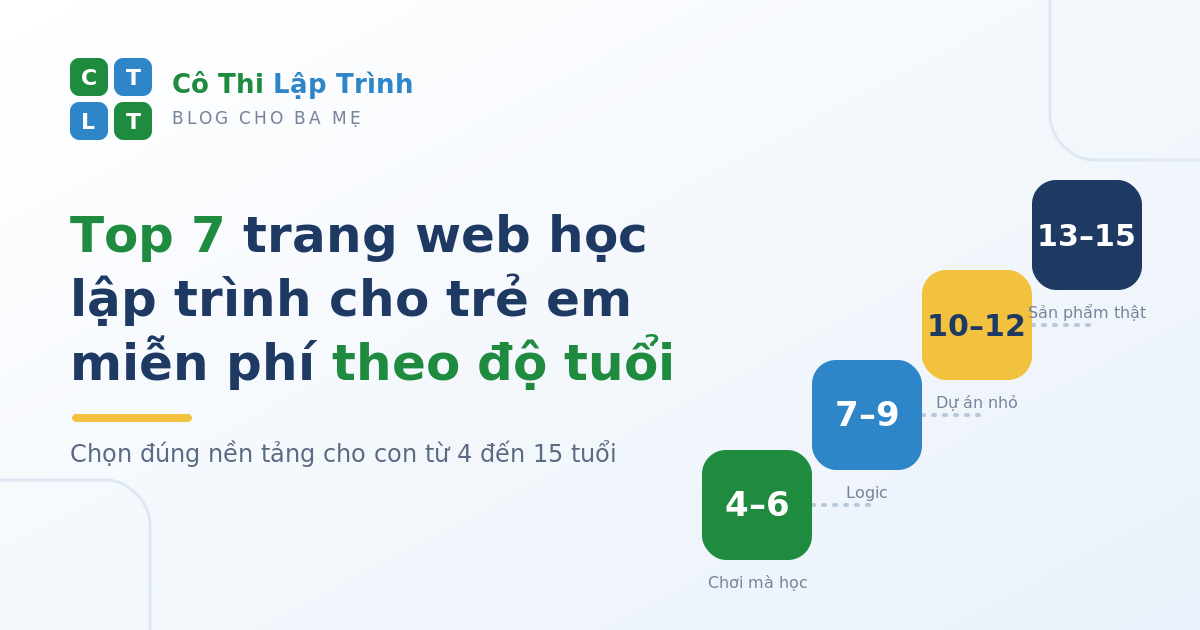
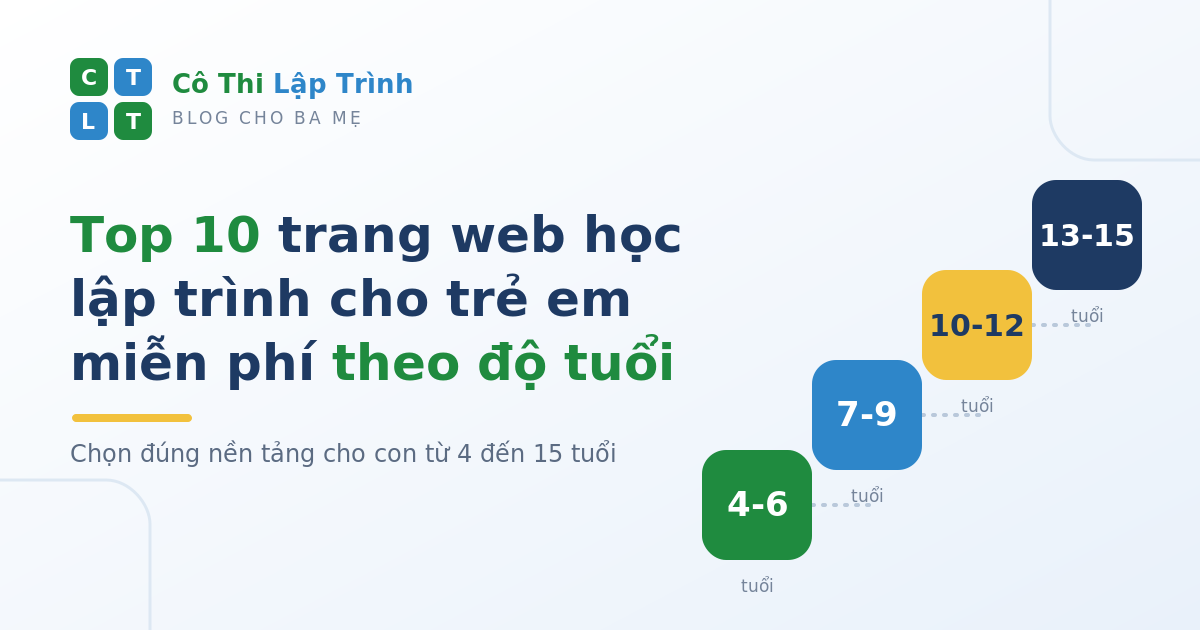
entry top trang 10 web

diff --git a/src/content/blog/nhung-trang-web-tu-hoc-lap-trinh-cho-tre-theo-do-tuoi.md b/src/content/blog/nhung-trang-web-tu-hoc-lap-trinh-cho-tre-theo-do-tuoi.md
@@ -1,147 +1,160 @@
 ---
-title: "Top 7 trang web học lập trình cho trẻ em miễn phí theo độ tuổi (4-15 tuổi)"
-description: "Trẻ em nên học lập trình ở đâu? Gợi ý 7 trang web học lập trình miễn phí cho trẻ từ 4 đến 15 tuổi: Scratch, Code.org, Khan Academy, CodeCombat... kèm lộ trình chọn đúng theo từng giai đoạn của con."
+title: "Top 10 trang web tự học lập trình cho trẻ em miễn phí theo độ tuổi (4-15 tuổi)"
+description: "Tổng hợp 10 trang web tự học lập trình miễn phí cho trẻ từ 4 đến 15 tuổi: Scratch, Code.org, Khan Academy, CodeCombat... kèm hướng dẫn chọn nền tảng đúng theo từng giai đoạn phát triển của trẻ."
 date: 2026-07-16
 tags: ["Lập trình cho trẻ", "Scratch", "Python", "Phụ huynh"]
 cover: "/assets/blog/tu-hoc-theo-do-tuoi/cover.png"
 ---
 
-Có một câu hỏi mà Cô Thi nhận được nhiều đến mức gần như tuần nào cũng gặp: *"Cô ơi, con em nên học lập trình ở trang web nào?"*
+Nhiều phụ huynh muốn cho con tự học lập trình tại nhà, hoàn toàn miễn phí, nhưng khi tìm kiếm "học lập trình cho trẻ em" thì nhận về hàng trăm kết quả khó phân biệt. Bài viết này tổng hợp 10 trang web tự học lập trình miễn phí uy tín, được sắp xếp theo từng độ tuổi từ 4 đến 15, kèm hướng dẫn chọn nền tảng phù hợp cho từng giai đoạn phát triển của trẻ.
 
-Mỗi lần như vậy, Cô thường hỏi ngược lại một câu rất đơn giản: **"Con năm nay bao nhiêu tuổi?"** Bởi vì sau nhiều năm đứng lớp, Cô nhận ra điều này: không có trang web học lập trình nào là "tốt nhất" cho mọi đứa trẻ. Chỉ có trang web **đúng lúc** cho từng giai đoạn của con. Một nền tảng tuyệt vời với bạn 13 tuổi có thể khiến bạn 6 tuổi bật khóc vì choáng ngợp. Và ngược lại, một trò chơi kéo thả dễ thương với bé mầm non lại làm bạn teen thấy... chán ngay từ phút thứ ba.
+Lý do cần chọn theo độ tuổi rất đơn giản: không có nền tảng nào "tốt nhất" cho mọi đứa trẻ, chỉ có nền tảng đúng lúc cho từng giai đoạn. Một trang web lý tưởng với học sinh 13 tuổi có thể quá phức tạp với trẻ 6 tuổi. Ngược lại, trò chơi kéo thả dành cho trẻ mầm non khó giữ chân một học sinh cấp 2 quá vài phút.
 
-Bài viết này là những gì Cô Thi thường chia sẻ với ba mẹ về các trang web học lập trình cho trẻ em miễn phí, sắp xếp lại theo từng độ tuổi — như một tấm bản đồ nhỏ để ba mẹ nhìn vào hành trình của con.
+> Không có trang web học lập trình nào tốt nhất cho mọi đứa trẻ. Chỉ có trang web phù hợp với độ tuổi và giai đoạn phát triển của từng em.
 
 ![Lộ trình học lập trình cho trẻ em theo độ tuổi: 4-6 chơi mà học, 7-9 logic và tuần tự, 10-12 dự án nhỏ, 13-15 sản phẩm thật](/assets/blog/tu-hoc-theo-do-tuoi/lo-trinh-do-tuoi.svg)
 
-## Tóm tắt nhanh: 7 trang web học lập trình cho trẻ em miễn phí
+## Tóm tắt nhanh: 10 trang web học lập trình cho trẻ em miễn phí
 
-Nếu ba mẹ đang vội, đây là bản đồ rút gọn (chi tiết từng giai đoạn ở bên dưới):
+Dành cho phụ huynh đang cần câu trả lời ngay, đây là danh sách rút gọn (phân tích chi tiết ở các phần dưới):
 
-1. **[Scratch](https://scratch.mit.edu/)** — 4-12 tuổi, kéo thả khối lệnh, phổ biến nhất thế giới
-2. **[Blockly Games](https://blockly.games/)** — 4-8 tuổi, trò chơi logic đơn giản, không cần đọc nhiều
-3. **[Code.org](https://code.org/)** — 4-15 tuổi, bài học theo lớp, có tiếng Việt
-4. **[Tynker](https://www.tynker.com/)** — 7-12 tuổi, bài học ngắn có cấu trúc
-5. **[Khan Academy](https://www.khanacademy.org/computing)** — 8-15 tuổi, học có lộ trình, hoàn toàn miễn phí
-6. **[CodeCombat](https://codecombat.com/)** — 10-14 tuổi, viết code thật để chơi game
-7. **[freeCodeCamp](https://www.freecodecamp.org/)** — 13 tuổi trở lên, lập trình web thực tế
+1. **[ScratchJr](https://www.scratchjr.org/)**: 4-6 tuổi, ứng dụng kéo thả cho bé chưa đọc thạo
+2. **[Blockly Games](https://blockly.games/)**: 4-8 tuổi, trò chơi logic đơn giản, ít chữ
+3. **[Lightbot](https://lightbot.com/)**: 5-9 tuổi, game giải đố dạy tư duy lập trình
+4. **[Scratch](https://scratch.mit.edu/)**: 6-12 tuổi, kéo thả khối lệnh, phổ biến nhất thế giới
+5. **[Code.org](https://code.org/)**: 4-15 tuổi, bài học theo lớp, có tiếng Việt
+6. **[Tynker](https://www.tynker.com/)**: 7-12 tuổi, bài học ngắn có cấu trúc
+7. **[CS First của Google](https://csfirst.withgoogle.com/)**: 9-14 tuổi, học Scratch theo chủ đề, có video hướng dẫn
+8. **[Khan Academy](https://www.khanacademy.org/computing)**: 8-15 tuổi, lộ trình rõ ràng, miễn phí hoàn toàn
+9. **[CodeCombat](https://codecombat.com/)**: 10-14 tuổi, viết code thật để chơi game
+10. **[freeCodeCamp](https://www.freecodecamp.org/)**: 13 tuổi trở lên, lập trình web thực tế
 
 ## Trang web học lập trình cho trẻ 4-6 tuổi: học bằng chơi, học bằng cảm nhận
 
 ![Trẻ 4-6 tuổi học lập trình qua các khối lệnh kéo thả đơn giản và nhân vật ngộ nghĩnh](/assets/blog/tu-hoc-theo-do-tuoi/tuoi-4-6.svg)
 
-Ở lứa tuổi này, con chưa cần biết "lập trình" là gì — và thật lòng, con cũng không cần biết. Điều duy nhất đáng để con khám phá là một cảm giác rất kỳ diệu: **mình ra lệnh, và máy tính làm theo.**
+Ở lứa tuổi mầm non, trẻ chưa cần biết khái niệm "lập trình" và cũng chưa cần học bất kỳ cú pháp nào. Trải nghiệm giá trị nhất ở giai đoạn này là cảm giác điều khiển được máy tính: trẻ kéo một khối lệnh, nhân vật trên màn hình cử động theo. Chính phản hồi tức thì đó gieo mầm cho tư duy nguyên nhân - kết quả, nền móng của mọi kỹ năng lập trình sau này.
 
-Cô vẫn nhớ ánh mắt của một bạn nhỏ 5 tuổi trong lớp, khi bạn kéo khối lệnh đầu tiên và chú mèo trên màn hình nhúc nhích. Bạn quay sang mẹ, tròn xoe: "Mẹ ơi, con làm nó chạy được!" Khoảnh khắc đó không có biến, không có vòng lặp, không có thuật toán nào cả. Nhưng nó là hạt giống của tất cả những thứ ấy sau này.
-
-Các nền tảng học lập trình cho trẻ mầm non và lớp 1 phù hợp thường tập trung vào:
+Các nền tảng phù hợp cho trẻ 4-6 tuổi thường có chung đặc điểm:
 
 - kéo thả khối lệnh đơn giản, ít chữ, nhiều hình
 - tạo nhân vật, màu sắc, âm thanh
 - lặp lại một hành động và quan sát điều xảy ra
 - làm quen với nguyên nhân và kết quả
 
-Ba mẹ có thể bắt đầu cùng con với [Scratch](https://scratch.mit.edu/), [Blockly Games](https://blockly.games/) hoặc các bài học sớm của [Code.org](https://code.org/). Lưu ý chữ "cùng con" — ở tuổi này, việc ba mẹ ngồi bên cạnh quan trọng hơn bất kỳ nền tảng nào.
+Ba lựa chọn tiêu biểu: [ScratchJr](https://www.scratchjr.org/) là ứng dụng máy tính bảng do nhóm phát triển Scratch thiết kế riêng cho trẻ chưa đọc thạo; [Blockly Games](https://blockly.games/) của Google gồm chuỗi trò chơi logic tăng dần độ khó; [Lightbot](https://lightbot.com/) là game giải đố dẫn đường robot, đã có hơn 20 triệu trẻ em trên thế giới chơi. Ngoài ra, các bài học sớm của [Code.org](https://code.org/) cũng được thiết kế cho lứa tuổi này và có phụ đề tiếng Việt.
 
-> Ở độ tuổi này, trẻ học tốt nhất khi được chơi, khám phá và thử sai. Nếu con thấy vui — đó đã là một buổi học thành công.
+> Ở tuổi 4-6, trẻ học tốt nhất khi được chơi, khám phá và thử sai. Nếu trẻ thấy vui, đó đã là một buổi học thành công.
+
+Một lưu ý quan trọng: ở giai đoạn này, việc phụ huynh ngồi học cùng con có giá trị hơn bất kỳ nền tảng nào. Trẻ cần người lớn bên cạnh để đặt câu hỏi, cổ vũ và chia sẻ niềm vui khám phá.
 
 ## Trang web học lập trình cho trẻ 7-9 tuổi: làm quen với logic và tuần tự
 
 ![Trẻ 7-9 tuổi làm quen tư duy thuật toán qua sơ đồ tuần tự, điều kiện và vòng lặp](/assets/blog/tu-hoc-theo-do-tuoi/tuoi-7-9.svg)
 
-Khi con lớn hơn một chút, có một thay đổi rất đẹp mà ba mẹ có thể quan sát được: con bắt đầu hiểu rằng **thứ tự các bước là có ý nghĩa**. Đánh răng trước rồi mới ăn sáng thì... không ổn. Con cười khúc khích khi nhận ra điều đó — và đấy chính là tư duy thuật toán đang nảy mầm.
+Bước vào tiểu học, trẻ bắt đầu hiểu rằng thứ tự các bước là có ý nghĩa. Đây là giai đoạn vàng để hình thành các khái niệm nền tảng của tư duy thuật toán:
 
-Đây là giai đoạn vàng để con làm quen với các khái niệm nền tảng của tư duy lập trình:
+- **tuần tự**: làm việc theo từng bước có trật tự
+- **điều kiện**: nếu... thì...
+- **lặp lại**: làm một việc nhiều lần
+- **chia nhỏ**: tách một việc lớn thành nhiều việc nhỏ
 
-- **tuần tự** — làm việc theo từng bước có trật tự
-- **điều kiện** — nếu... thì...
-- **lặp lại** — làm một việc nhiều lần
-- **chia nhỏ** — tách một việc lớn thành nhiều việc nhỏ
+Với lứa tuổi này, [Scratch](https://scratch.mit.edu/) của MIT gần như là lựa chọn mặc định trên toàn thế giới: trẻ tự tạo câu chuyện, hoạt cảnh, trò chơi bằng cách ghép các khối lệnh, vừa chơi vừa thấm dần cách một chương trình vận hành. Phụ huynh muốn con học có cấu trúc hơn có thể chọn [Tynker](https://www.tynker.com/) với các bài học ngắn theo chủ đề, hoặc [Khan Academy](https://www.khanacademy.org/computing) với lộ trình bài bản và hoàn toàn miễn phí. Gia đình nào muốn con học Scratch có giáo viên hướng dẫn và bạn học cùng thì **[khóa học Scratch cho trẻ em](/khoa-hoc-scratch)** tại Cô Thi Lập Trình là một lựa chọn đáng tham khảo.
 
-Với học sinh tiểu học lứa này, [Scratch](https://scratch.mit.edu/) gần như là người bạn hoàn hảo. Con có thể tự tạo câu chuyện, hoạt cảnh, trò chơi nhỏ bằng cách ghép các khối lệnh — vừa chơi, vừa vô thức thấm cách một chương trình vận hành. Nếu ba mẹ muốn con học có cấu trúc hơn một chút, [Tynker](https://www.tynker.com/) và [Khan Academy](https://www.khanacademy.org/computing) có các bài học ngắn, dễ hiểu và nhiều ví dụ trực quan. Còn nếu muốn con học Scratch bài bản có cô hướng dẫn và bạn học cùng, ba mẹ có thể tham khảo **[khóa học Scratch cho trẻ em](/khoa-hoc-scratch)** của Cô Thi.
+> Thước đo tiến bộ ở tuổi 7-9 không phải là số lệnh trẻ đã học, mà là việc trẻ giải thích được vì sao chương trình của mình chạy như vậy.
 
-Điều Cô muốn nhắn nhủ với ba mẹ ở giai đoạn này: đừng vội đo tiến bộ của con bằng "con đã học được bao nhiêu lệnh". Hãy nghe con **kể lại** con vừa làm gì. Một đứa trẻ giải thích được vì sao chú mèo quay đầu khi chạm cạnh màn hình — đó là đứa trẻ đang thực sự học.
+Một cách kiểm tra đơn giản dành cho phụ huynh: sau buổi học, đề nghị con kể lại con vừa làm gì. Một đứa trẻ giải thích được vì sao chú mèo quay đầu khi chạm cạnh màn hình là một đứa trẻ đang thực sự học, chứ không chỉ làm theo hướng dẫn.
 
 ## Trang web học lập trình cho trẻ 10-12 tuổi: dự án riêng đầu tiên
 
 ![Trẻ 10-12 tuổi tự xây dựng trò chơi riêng với biến, hàm và vòng lặp](/assets/blog/tu-hoc-theo-do-tuoi/tuoi-10-12.svg)
 
-Khoảng 10 tuổi, nhiều bạn nhỏ bước qua một ngưỡng thú vị: con có thể tự đọc hướng dẫn, tự làm theo từng bước, và quan trọng nhất — con bắt đầu **muốn làm thứ của riêng mình**. Không phải bài mẫu của cô giáo nữa, mà là trò chơi của con, ý tưởng của con.
+Khoảng 10 tuổi, nhiều trẻ bước qua một ngưỡng phát triển đáng chú ý: có thể tự đọc hướng dẫn, tự làm theo từng bước, và quan trọng nhất là bắt đầu muốn tạo ra sản phẩm của riêng mình thay vì làm theo bài mẫu. Đây là thời điểm phù hợp để học các khái niệm lập trình thực thụ: biến, hàm, vòng lặp, cấu trúc điều kiện.
 
-Đây là lúc phù hợp để học các khái niệm rõ ràng hơn: biến, hàm, vòng lặp, cấu trúc điều kiện. Nghe có vẻ khô khan, nhưng khi các khái niệm ấy được gói trong một dự án con tự chọn, chúng sống động lạ thường. Trẻ ở tuổi này thường thích:
+Trẻ ở độ tuổi này thường hào hứng nhất khi được:
 
 - xây dựng dự án riêng thay vì làm theo mẫu
 - tạo trò chơi hoặc ứng dụng nhỏ
 - thử nghiệm, gặp lỗi, và tự sửa lỗi
-- khám phá và biến ý tưởng thành sản phẩm
+- biến ý tưởng của mình thành sản phẩm
 
-Nếu con đã quen Scratch, đây là thời điểm đẹp để chuyển dần sang học [Python](https://www.python.org/) — ngôn ngữ "chữ" đầu tiên mà cú pháp thân thiện như tiếng Anh đơn giản. [CodeCombat](https://codecombat.com/) cũng là một lựa chọn thông minh: con viết code thật để điều khiển nhân vật trong game, ranh giới giữa chơi và học gần như biến mất. Với các bạn muốn chuyển từ Scratch sang Python có lộ trình rõ ràng, **[khóa học Python cho trẻ em mới bắt đầu](/khoa-hoc-python)** của Cô Thi được thiết kế đúng cho bước chuyển này.
+Nếu trẻ vẫn đang say mê Scratch, [CS First của Google](https://csfirst.withgoogle.com/) cung cấp kho chủ đề phong phú với video hướng dẫn từng bước, từ kể chuyện đến làm game. Với trẻ đã sẵn sàng bước tiếp, đây là thời điểm đẹp để chuyển dần sang [Python](https://www.python.org/), ngôn ngữ dạng chữ có cú pháp thân thiện gần như tiếng Anh đơn giản. [CodeCombat](https://codecombat.com/) là cây cầu thú vị cho bước chuyển này: trẻ viết code thật để điều khiển nhân vật trong game, ranh giới giữa chơi và học gần như biến mất. Các gia đình muốn con chuyển từ Scratch sang Python theo lộ trình rõ ràng có thể tham khảo **[khóa học Python cho trẻ em mới bắt đầu](/khoa-hoc-python)**.
 
-Có một điều Cô nhận ra sau nhiều khóa dạy lứa tuổi này: khoảnh khắc quý nhất không phải khi chương trình chạy đúng, mà là khi nó chạy **sai** — và con không buông chuột, ngồi dò lại từng dòng. Kỹ năng tìm lỗi ấy, không sách giáo khoa nào dạy được bằng chính trải nghiệm.
+> Khoảnh khắc giá trị nhất với trẻ 10-12 tuổi không phải khi chương trình chạy đúng, mà là khi nó chạy sai và trẻ không bỏ cuộc, ngồi dò lại từng dòng để tìm lỗi.
+
+Kỹ năng tìm và sửa lỗi (debug) chính là năng lực cốt lõi của mọi lập trình viên, và không giáo trình nào dạy được điều đó tốt bằng trải nghiệm trực tiếp.
 
 ## Trang web học lập trình cho trẻ 13-15 tuổi: tạo sản phẩm thực tế
 
 ![Tuổi teen 13-15 học Python, làm web, phân tích dữ liệu và tạo sản phẩm thực tế](/assets/blog/tu-hoc-theo-do-tuoi/tuoi-13-15.svg)
 
-Ở tuổi teen, câu hỏi trong đầu các bạn thay đổi hẳn. Không còn là "cái này có vui không?" mà là **"cái này để làm gì?"** Và đó là một câu hỏi tuyệt vời — bởi lập trình có câu trả lời rất thuyết phục.
+Ở tuổi teen, động lực học của trẻ thay đổi rõ rệt: câu hỏi không còn là "cái này có vui không?" mà là "cái này để làm gì?". Lập trình có câu trả lời thuyết phục cho câu hỏi đó. Một học sinh lớp 8 hoàn toàn có thể viết chương trình Python vài chục dòng để thống kê điểm kiểm tra của cả lớp, làm một trang web cá nhân, hay tự động hóa một việc lặp đi lặp lại trên máy tính.
 
-Đây là thời điểm phù hợp để học sinh cấp 2 học sâu hơn về:
+Các hướng học phù hợp cho giai đoạn 13-15 tuổi:
 
-- Python cho dữ liệu, AI hoặc tự động hóa những việc lặp đi lặp lại
-- web cơ bản — tự làm trang web đầu tiên của mình
+- Python cho dữ liệu, AI hoặc tự động hóa
+- web cơ bản: tự làm trang web đầu tiên
 - phát triển trò chơi nhỏ hoàn chỉnh
 - giải quyết các bài toán logic nâng cao
 
-Cô từng có một học trò lớp 8 viết chương trình Python nhỏ để thống kê điểm kiểm tra của cả lớp. Chương trình chỉ vài chục dòng thôi, nhưng ngày bạn mang đến lớp, ánh mắt của bạn khác hẳn — vì lần đầu tiên, thứ bạn viết ra **có ích cho người khác**. Từ hôm đó, không ai phải nhắc bạn học nữa.
+[freeCodeCamp](https://www.freecodecamp.org/) là lựa chọn hàng đầu cho hướng lập trình web với chứng chỉ miễn phí và hàng nghìn bài thực hành. [Khan Academy](https://www.khanacademy.org/computing) và [Code.org](https://code.org/) tiếp tục là bước đệm tốt với lộ trình rõ ràng, đủ sâu để đi đường dài. Học sinh định hướng thi học sinh giỏi Tin học hoặc vào lớp chuyên có thể xem thêm **[lộ trình học lập trình cho học sinh](/lo-trinh)** được thiết kế theo từng cấp độ.
 
-Những nền tảng như [Khan Academy](https://www.khanacademy.org/computing), [Code.org](https://code.org/) hoặc [freeCodeCamp](https://www.freecodecamp.org/) là bước đệm rất tốt cho giai đoạn này — bài học miễn phí, lộ trình rõ ràng, và đủ sâu để con đi đường dài. Bạn nào định hướng thi học sinh giỏi Tin hoặc vào lớp chuyên, ba mẹ có thể xem thêm **[lộ trình học lập trình cho học sinh](/lo-trinh)** mà Cô Thi đã xây dựng.
+> Khi sản phẩm viết ra chạy được và có ích cho người khác, động lực học của trẻ sẽ tự duy trì mà không cần ai nhắc nhở.
 
 ## Trẻ mấy tuổi nên bắt đầu học lập trình?
 
-Nhiều ba mẹ hỏi Cô, giọng đầy băn khoăn: "Con em còn nhỏ quá, học lập trình liệu có sớm không?" Nhưng cũng có ba mẹ ngược lại, sốt ruột muốn con 7 tuổi học ngay Python "cho kịp bạn bè".
+Đây là câu hỏi phổ biến nhất của phụ huynh, và thường đi kèm hai nỗi lo trái ngược: lo con còn quá nhỏ để học, hoặc sốt ruột muốn con học nhanh "cho kịp bạn bè".
 
-Cô nghĩ cả hai nỗi lo đều xuất phát từ tình thương — và cả hai đều có thể nhẹ nhàng buông xuống. Trẻ từ 4-5 tuổi đã hoàn toàn có thể tiếp cận lập trình sớm, miễn là **đúng cách và đúng liều lượng**. Ngược lại, ép con học nhanh hơn nhịp phát triển của con thì giống như bắt một mầm cây vươn thành cổ thụ trong một mùa: cây không lớn nhanh hơn, chỉ mệt hơn.
+Thực tế, trẻ từ 4-5 tuổi đã có thể tiếp cận lập trình một cách nhẹ nhàng qua các ứng dụng kéo thả, miễn là đúng cách và đúng liều lượng. Ngược lại, ép trẻ học nhanh hơn nhịp phát triển tự nhiên thường phản tác dụng: áp lực làm hứng thú giảm nhanh, và một đứa trẻ mất hứng thú thì khó quay lại hơn nhiều so với một đứa trẻ bắt đầu muộn.
 
-Điều tốt nhất ba mẹ có thể làm là chọn một lộ trình **vừa đủ thử thách, vừa đủ vui**. Khi con thấy mình tự tạo ra được thứ gì đó, lập trình sẽ không còn là "môn học" nữa — nó trở thành một cách con trò chuyện với thế giới.
+> Học sớm hay muộn không quan trọng bằng học đúng nhịp. Lộ trình tốt là lộ trình vừa đủ thử thách, vừa đủ vui.
 
-> Học sớm hay muộn không quan trọng bằng học đúng nhịp của con. Mỗi đứa trẻ có một chiếc đồng hồ riêng.
+Nguyên tắc chung: chọn nền tảng theo đúng độ tuổi như danh sách ở trên, bắt đầu từ mức con thấy thoải mái, và chỉ nâng độ khó khi con đã sẵn sàng.
 
-## Bí quyết giúp con tự học bền: kỷ luật giữ lửa đam mê
+## Yếu tố quyết định khi tự học: duy trì thói quen đều đặn
 
 ![Thói quen học lập trình đều đặn mỗi tuần giúp trẻ duy trì đam mê lâu dài](/assets/blog/tu-hoc-theo-do-tuoi/ky-luat-thoi-quen.svg)
 
-Cô muốn dành phần này để nói về một điều ít được nhắc đến trong các bài "review trang web học lập trình cho trẻ em" — nhưng theo Cô, nó quyết định tất cả.
+Có một yếu tố ít được nhắc đến trong các bài giới thiệu trang web học lập trình, nhưng lại quyết định phần lớn kết quả: thói quen học đều đặn.
 
-Học lập trình không phải lúc nào cũng vui. Có những buổi con làm được một bài và về khoe khắp nhà. Nhưng cũng có những buổi chỉ vì một lỗi nhỏ không tìm ra, con ngồi thừ trước màn hình, mắt rơm rớm. Cô đã chứng kiến cảnh ấy nhiều lần. Và chính ở những thời điểm đó, thứ giữ con lại không phải là trang web hay ho nào — mà là **thói quen**.
+Học lập trình không phải lúc nào cũng suôn sẻ. Sẽ có những buổi trẻ hoàn thành bài và hào hứng khoe khắp nhà, nhưng cũng có những buổi chỉ vì một lỗi nhỏ không tìm ra mà trẻ nản lòng. Nhiều trẻ khởi đầu rất hào hứng nhưng bỏ cuộc chỉ sau vài lần "làm mãi không được". Điểm chung của những em đi được đường dài không phải là thông minh vượt trội, mà là vẫn quay lại học vào buổi sau, kiên nhẫn thử lại và học từ chính lỗi sai của mình.
 
-Kỷ luật ở đây không có nghĩa là ép con ngồi trước máy tính hàng giờ. Kỷ luật là duy trì nhịp học đều đặn, dù hôm đó dễ hay khó, vui hay nản. Một buổi học 30 phút mỗi tuần đôi ba lần, giữ được suốt một năm, giá trị hơn rất nhiều một tháng học dồn dập rồi bỏ dở.
+> Một buổi học 30 phút duy trì đều đặn suốt một năm có giá trị hơn nhiều một tháng học dồn dập rồi bỏ dở.
 
-Cô thấy nhiều bạn nhỏ khởi đầu rực rỡ, nhưng chỉ sau vài lần "làm mãi không được" là buông. Đam mê bị cắt đứt ở đó, và quay lại khó hơn bắt đầu rất nhiều. Ngược lại, những bạn đi xa nhất trong các lớp của Cô hiếm khi là bạn thông minh nhất buổi đầu — mà là bạn **vẫn quay lại vào buổi sau**, kiên nhẫn thử lại, và học được từ chính lỗi sai của mình.
-
-Học lập trình là một hành trình, không phải một cuộc đua ngắn. Và trên hành trình ấy, kỷ luật chính là người bạn đồng hành lặng lẽ giữ cho ngọn lửa đam mê không tắt.
+Khuyến nghị cho phụ huynh: đặt lịch học cố định 2-3 buổi mỗi tuần, mỗi buổi 30-45 phút với trẻ tiểu học. Nếu trẻ lỡ một buổi, không cần bù dồn, chỉ cần quay lại đúng nhịp vào buổi kế tiếp.
 
 ## Câu hỏi thường gặp về học lập trình cho trẻ em
 
 **Trẻ em học lập trình miễn phí ở đâu tốt nhất?**
-Scratch, Code.org và Khan Academy là ba nền tảng miễn phí hoàn toàn, chất lượng cao và an toàn cho trẻ. Với trẻ 4-9 tuổi hãy bắt đầu từ Scratch; từ 10 tuổi trở lên có thể thêm CodeCombat và freeCodeCamp.
+Scratch, Code.org và Khan Academy là ba nền tảng miễn phí hoàn toàn, chất lượng cao và an toàn cho trẻ. Với trẻ 4-9 tuổi nên bắt đầu từ ScratchJr và Scratch; từ 10 tuổi trở lên có thể thêm CS First, CodeCombat và freeCodeCamp.
 
 **Trẻ nên học Scratch hay Python trước?**
-Với trẻ dưới 10 tuổi, Scratch gần như luôn là lựa chọn đúng: kéo thả trực quan, không lo lỗi cú pháp. Từ khoảng 10-11 tuổi, khi con đã vững tư duy tuần tự - điều kiện - lặp, chuyển sang Python sẽ rất tự nhiên.
+Với trẻ dưới 10 tuổi, Scratch gần như luôn là lựa chọn đúng: kéo thả trực quan, không lo lỗi cú pháp. Từ khoảng 10-11 tuổi, khi trẻ đã vững tư duy tuần tự, điều kiện, lặp, việc chuyển sang Python sẽ diễn ra tự nhiên.
 
 **Tự học trên web có đủ không, hay cần khóa học có giáo viên?**
-Tự học miễn phí là khởi đầu rất tốt. Tuy nhiên khi con bắt đầu nghiêm túc — muốn làm dự án riêng, chuẩn bị thi, hoặc hay nản khi gặp bài khó — một lớp học có giáo viên đồng hành và bạn học cùng sẽ giúp con giữ nhịp và đi xa hơn. Ba mẹ có thể xem [các khóa học lập trình cho trẻ em của Cô Thi](/khoa-hoc) để chọn lớp phù hợp.
+Tự học miễn phí là khởi đầu tốt. Tuy nhiên khi trẻ bắt đầu học nghiêm túc, muốn làm dự án riêng, chuẩn bị thi, hoặc dễ nản khi gặp bài khó, một lớp học có giáo viên đồng hành sẽ giúp trẻ giữ nhịp và tiến xa hơn. Phụ huynh có thể tham khảo [các khóa học lập trình cho trẻ em](/khoa-hoc) tại Cô Thi Lập Trình.
 
-**Mỗi tuần con nên học bao nhiêu là đủ?**
-Với trẻ tiểu học: 30-45 phút mỗi buổi, 2-3 buổi một tuần. Đều đặn quan trọng hơn thời lượng — một nhịp học nhỏ giữ được cả năm giá trị hơn nhiều đợt học dồn.
+**Mỗi tuần trẻ nên học bao nhiêu là đủ?**
+Với trẻ tiểu học: 30-45 phút mỗi buổi, 2-3 buổi một tuần. Tính đều đặn quan trọng hơn thời lượng.
 
-## Lời kết
+## Kết luận
 
-Nếu phải tóm lại tất cả trong một câu, Cô sẽ nói thế này: **không có trang web nào phù hợp cho mọi lứa tuổi — chỉ có trang web phù hợp với đứa trẻ đang đứng trước mặt mình.**
+Mười trang web trong bài đều miễn phí và đã được kiểm chứng bởi hàng triệu người học trên thế giới. Điều quan trọng nhất khi lựa chọn không phải là danh tiếng của nền tảng, mà là mức độ phù hợp với độ tuổi và giai đoạn phát triển của trẻ: trẻ mới bắt đầu cần nơi trực quan, vui vẻ, ít áp lực; trẻ đã có nền tảng cần không gian để tự xây dự án và giải quyết vấn đề.
 
-Nếu con mới bắt đầu, hãy chọn nơi trực quan, vui vẻ, ít áp lực. Nếu con đã có nền tảng, hãy mở cho con cánh cửa để tự xây dự án và giải quyết vấn đề bằng chính đôi tay mình. Và dù con ở giai đoạn nào, xin ba mẹ nhớ: đôi khi chỉ cần một câu lệnh đơn giản và một niềm vui nhỏ — là đủ để mở ra một hành trình rất dài.
+Đôi khi, một câu lệnh đơn giản và một niềm vui nhỏ là đủ để mở ra một hành trình dài.
 
----
-
-Nếu ba mẹ đang tìm một lộ trình bài bản cho con, có thể xem thêm **[khóa học Scratch cho trẻ em](/khoa-hoc-scratch)** và **[khóa học Python cho người mới bắt đầu](/khoa-hoc-python)** của Cô Thi — hoặc bắt đầu tự do với [Scratch](https://scratch.mit.edu/), [Code.org](https://code.org/) và [Khan Academy](https://www.khanacademy.org/computing).
-
-Cần tư vấn lộ trình học lập trình phù hợp riêng cho con, ba mẹ nhắn Cô Thi qua Zalo: **0985 188 655** nhé.
+<div style="margin-top:36px;border-radius:26px;padding:38px clamp(22px,5vw,48px);color:#fff;background:radial-gradient(circle at 88% -30%,rgba(242,193,61,.38),transparent 42%),linear-gradient(135deg,#1E3A63,#13294a);">
+  <p style="margin:0;font-size:.82rem;font-weight:700;letter-spacing:2px;text-transform:uppercase;color:#F2C13D;">Đồng hành cùng con</p>
+  <p style="margin:10px 0 6px;font-size:1.45rem;font-weight:800;line-height:1.3;color:#fff;">Sẵn sàng cho con bắt đầu hành trình lập trình?</p>
+  <p style="margin:0 0 22px;color:#dbe7f3;">Lộ trình bài bản theo đúng độ tuổi, có giáo viên đồng hành và bạn học cùng.</p>
+  <p style="display:flex;flex-wrap:wrap;gap:12px;margin:0 0 18px;">
+    <a class="btn btn-gold" href="/khoa-hoc-scratch" style="text-decoration:none;">Khóa học Scratch cho trẻ em</a>
+    <a class="btn btn-light" href="/khoa-hoc-python" style="text-decoration:none;">Khóa học Python cho người mới</a>
+    <a class="btn" href="https://zalo.me/0985188655" style="text-decoration:none;background:#1f8b3f;color:#fff;box-shadow:0 10px 24px rgba(31,139,63,.35);">Tư vấn Zalo: 0985 188 655</a>
+  </p>
+  <p style="margin:0;font-size:.92rem;color:#b7c6dd;">Hoặc bắt đầu tự do với
+    <a href="https://scratch.mit.edu/" style="color:#fff;">Scratch</a>,
+    <a href="https://code.org/" style="color:#fff;">Code.org</a> và
+    <a href="https://www.khanacademy.org/computing" style="color:#fff;">Khan Academy</a>.
+  </p>
+</div>